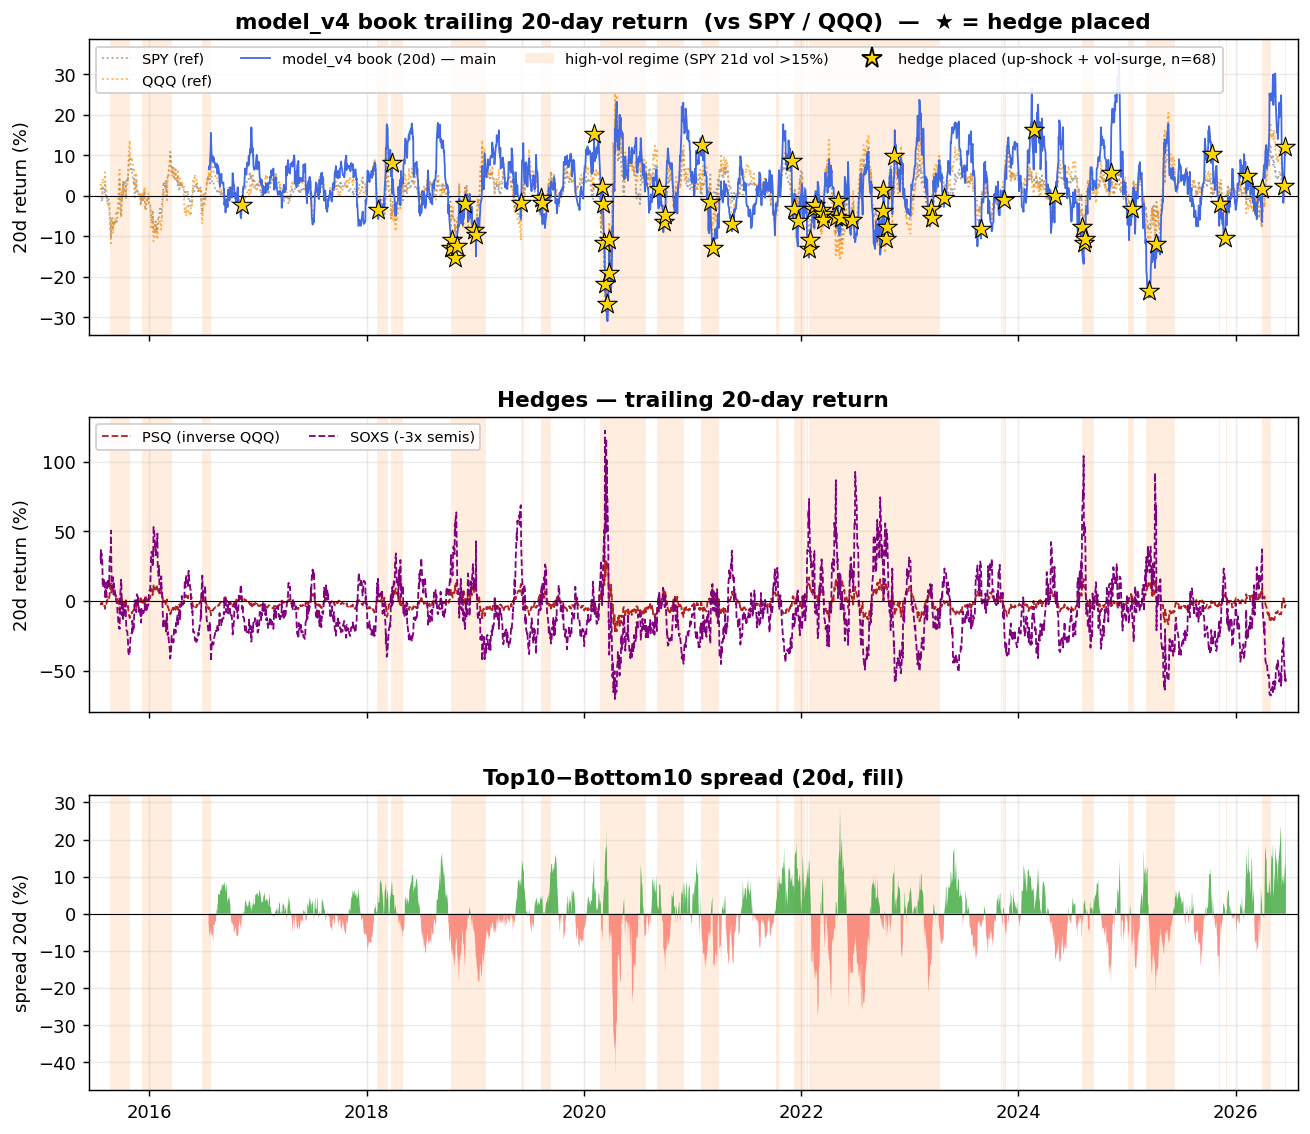
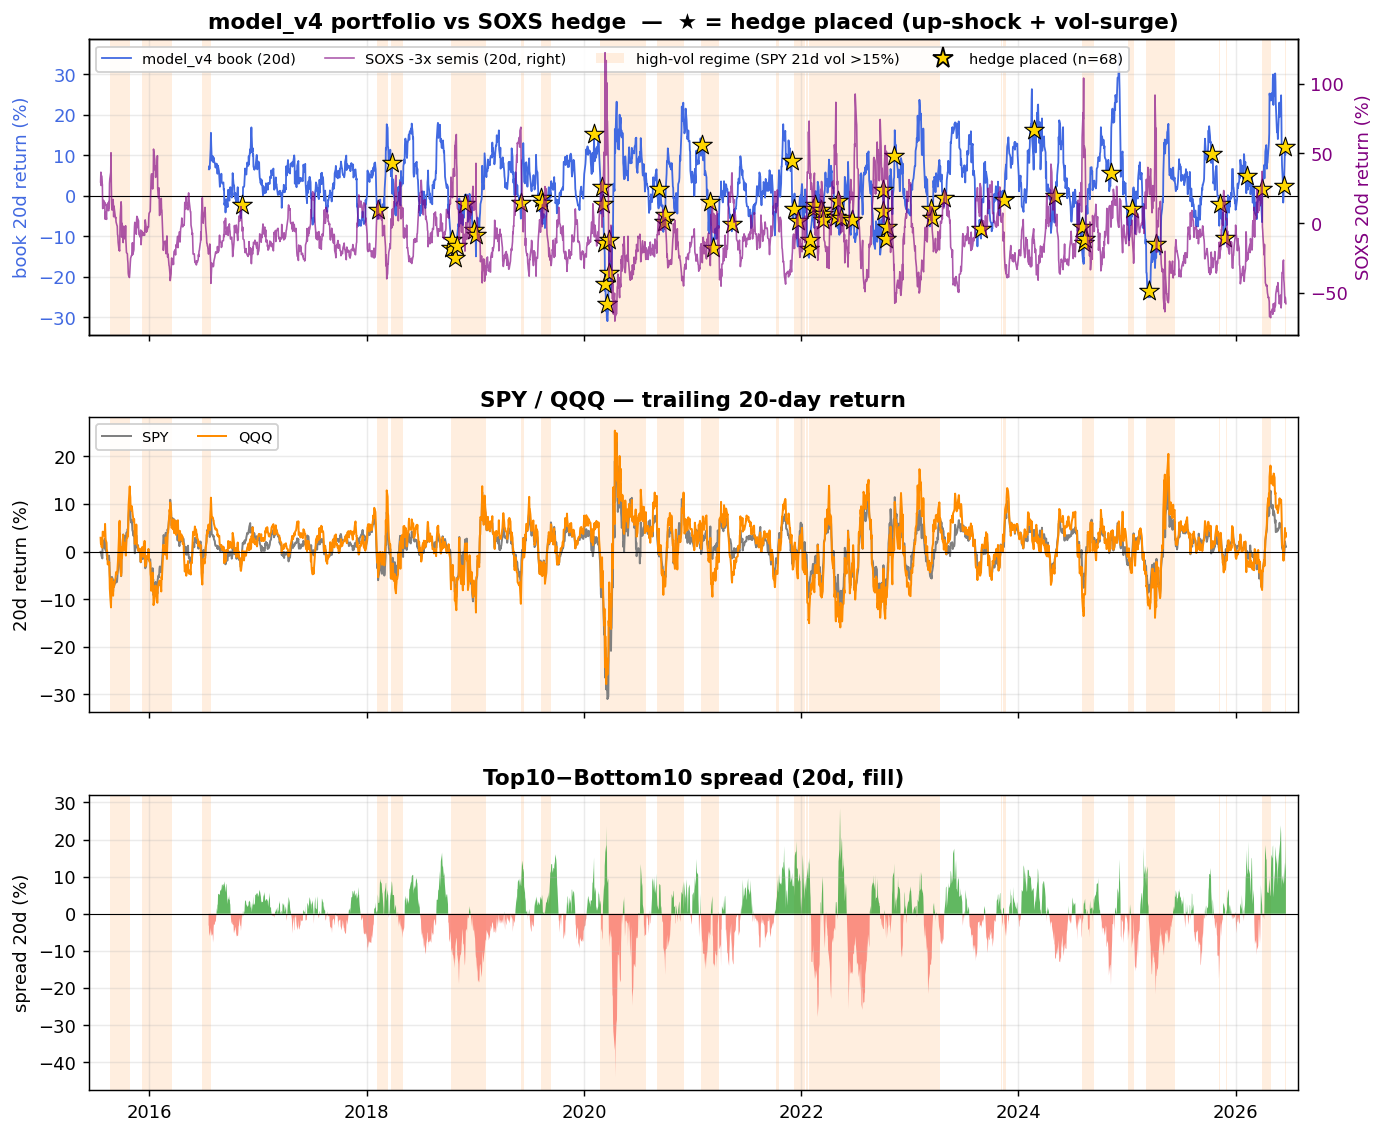
rolling_1y_returns_modified: top=portfolio+SOXS w/ hedge stars, mid=SPY/QQQ
- top panel: model_v4 book (left axis) + SOXS -3x semis (right axis) + gold star
  on each up-shock+vol hedge-placement date
- middle panel: SPY / QQQ trailing 20d returns
- bottom panel: Top10-Bottom10 spread (unchanged)

diff --git a/make_rolling_chart.py b/make_rolling_chart.py
@@ -70,33 +70,39 @@ fig.subplots_adjust(hspace=0.28)
 
 # panel 1 — book (main series) vs long-exposure benchmarks (MTUM & SMH removed)
 shade(ax0)
-# benchmarks demoted to dotted reference lines
-ax0.plot(r20.index, r20["SPY"], color="gray", lw=1.0, ls=":", alpha=0.7, zorder=2, label="SPY (ref)")
-ax0.plot(r20.index, r20["QQQ"], color="darkorange", lw=1.0, ls=":", alpha=0.7, zorder=2, label="QQQ (ref)")
-# the book — the series to read: solid blue line, drawn on top
+# the portfolio — solid blue line on the left axis
 ax0.plot(book20.index, book20, color="royalblue", lw=1.0, zorder=5,
-         label="model_v4 book (20d) — main")
-# ★ stars where the codified up-shock+vol hedge would be placed (decide at close)
+         label="model_v4 book (20d)")
+# SOXS on a right axis (its -3x swings are ~10x the book's scale)
+ax0b = ax0.twinx()
+ax0b.plot(r20.index, r20["SOXS"], color="purple", lw=0.9, alpha=0.65, zorder=3,
+          label="SOXS -3x semis (20d, right)")
+ax0b.set_ylabel("SOXS 20d return (%)", color="purple")
+ax0b.tick_params(axis="y", labelcolor="purple")
+# ★ stars where the codified up-shock+vol hedge would be placed (on the portfolio line)
 _star_y = book20.reindex(HEDGE_DATES)
 ax0.scatter(HEDGE_DATES, _star_y, marker="*", s=130, color="gold",
             edgecolors="black", linewidths=0.6, zorder=7)
 ax0.axhline(0, color="black", lw=0.6)
-ax0.set_title("model_v4 book trailing 20-day return  (vs SPY / QQQ)  —  ★ = hedge placed",
+ax0.set_title("model_v4 portfolio vs SOXS hedge  —  ★ = hedge placed (up-shock + vol-surge)",
               fontweight="bold")
-ax0.set_ylabel("20d return (%)")
+ax0.set_ylabel("book 20d return (%)", color="royalblue")
+ax0.tick_params(axis="y", labelcolor="royalblue")
 h, l = ax0.get_legend_handles_labels()
+hb, lb = ax0b.get_legend_handles_labels()
+h += hb; l += lb
 h.append(Patch(facecolor="peachpuff", alpha=0.45)); l.append("high-vol regime (SPY 21d vol >15%)")
 h.append(Line2D([0], [0], marker="*", color="none", markerfacecolor="gold",
                 markeredgecolor="black", markersize=12))
-l.append("hedge placed (up-shock + vol-surge, n=%d)" % len(HEDGE_DATES))
+l.append("hedge placed (n=%d)" % len(HEDGE_DATES))
 ax0.legend(h, l, ncol=4, fontsize=8, loc="upper left", framealpha=0.9)
 
-# panel 2 — hedges
+# panel 2 — SPY / QQQ
 shade(ax1)
-ax1.plot(r20.index, r20["PSQ"], color="firebrick", lw=1.0, ls="--", label="PSQ (inverse QQQ)")
-ax1.plot(r20.index, r20["SOXS"], color="purple", lw=1.0, ls="--", label="SOXS (-3x semis)")
+ax1.plot(r20.index, r20["SPY"], color="gray", lw=1.1, label="SPY")
+ax1.plot(r20.index, r20["QQQ"], color="darkorange", lw=1.1, label="QQQ")
 ax1.axhline(0, color="black", lw=0.6)
-ax1.set_title("Hedges — trailing 20-day return", fontweight="bold")
+ax1.set_title("SPY / QQQ — trailing 20-day return", fontweight="bold")
 ax1.set_ylabel("20d return (%)")
 ax1.legend(ncol=2, fontsize=8, loc="upper left", framealpha=0.9)
 